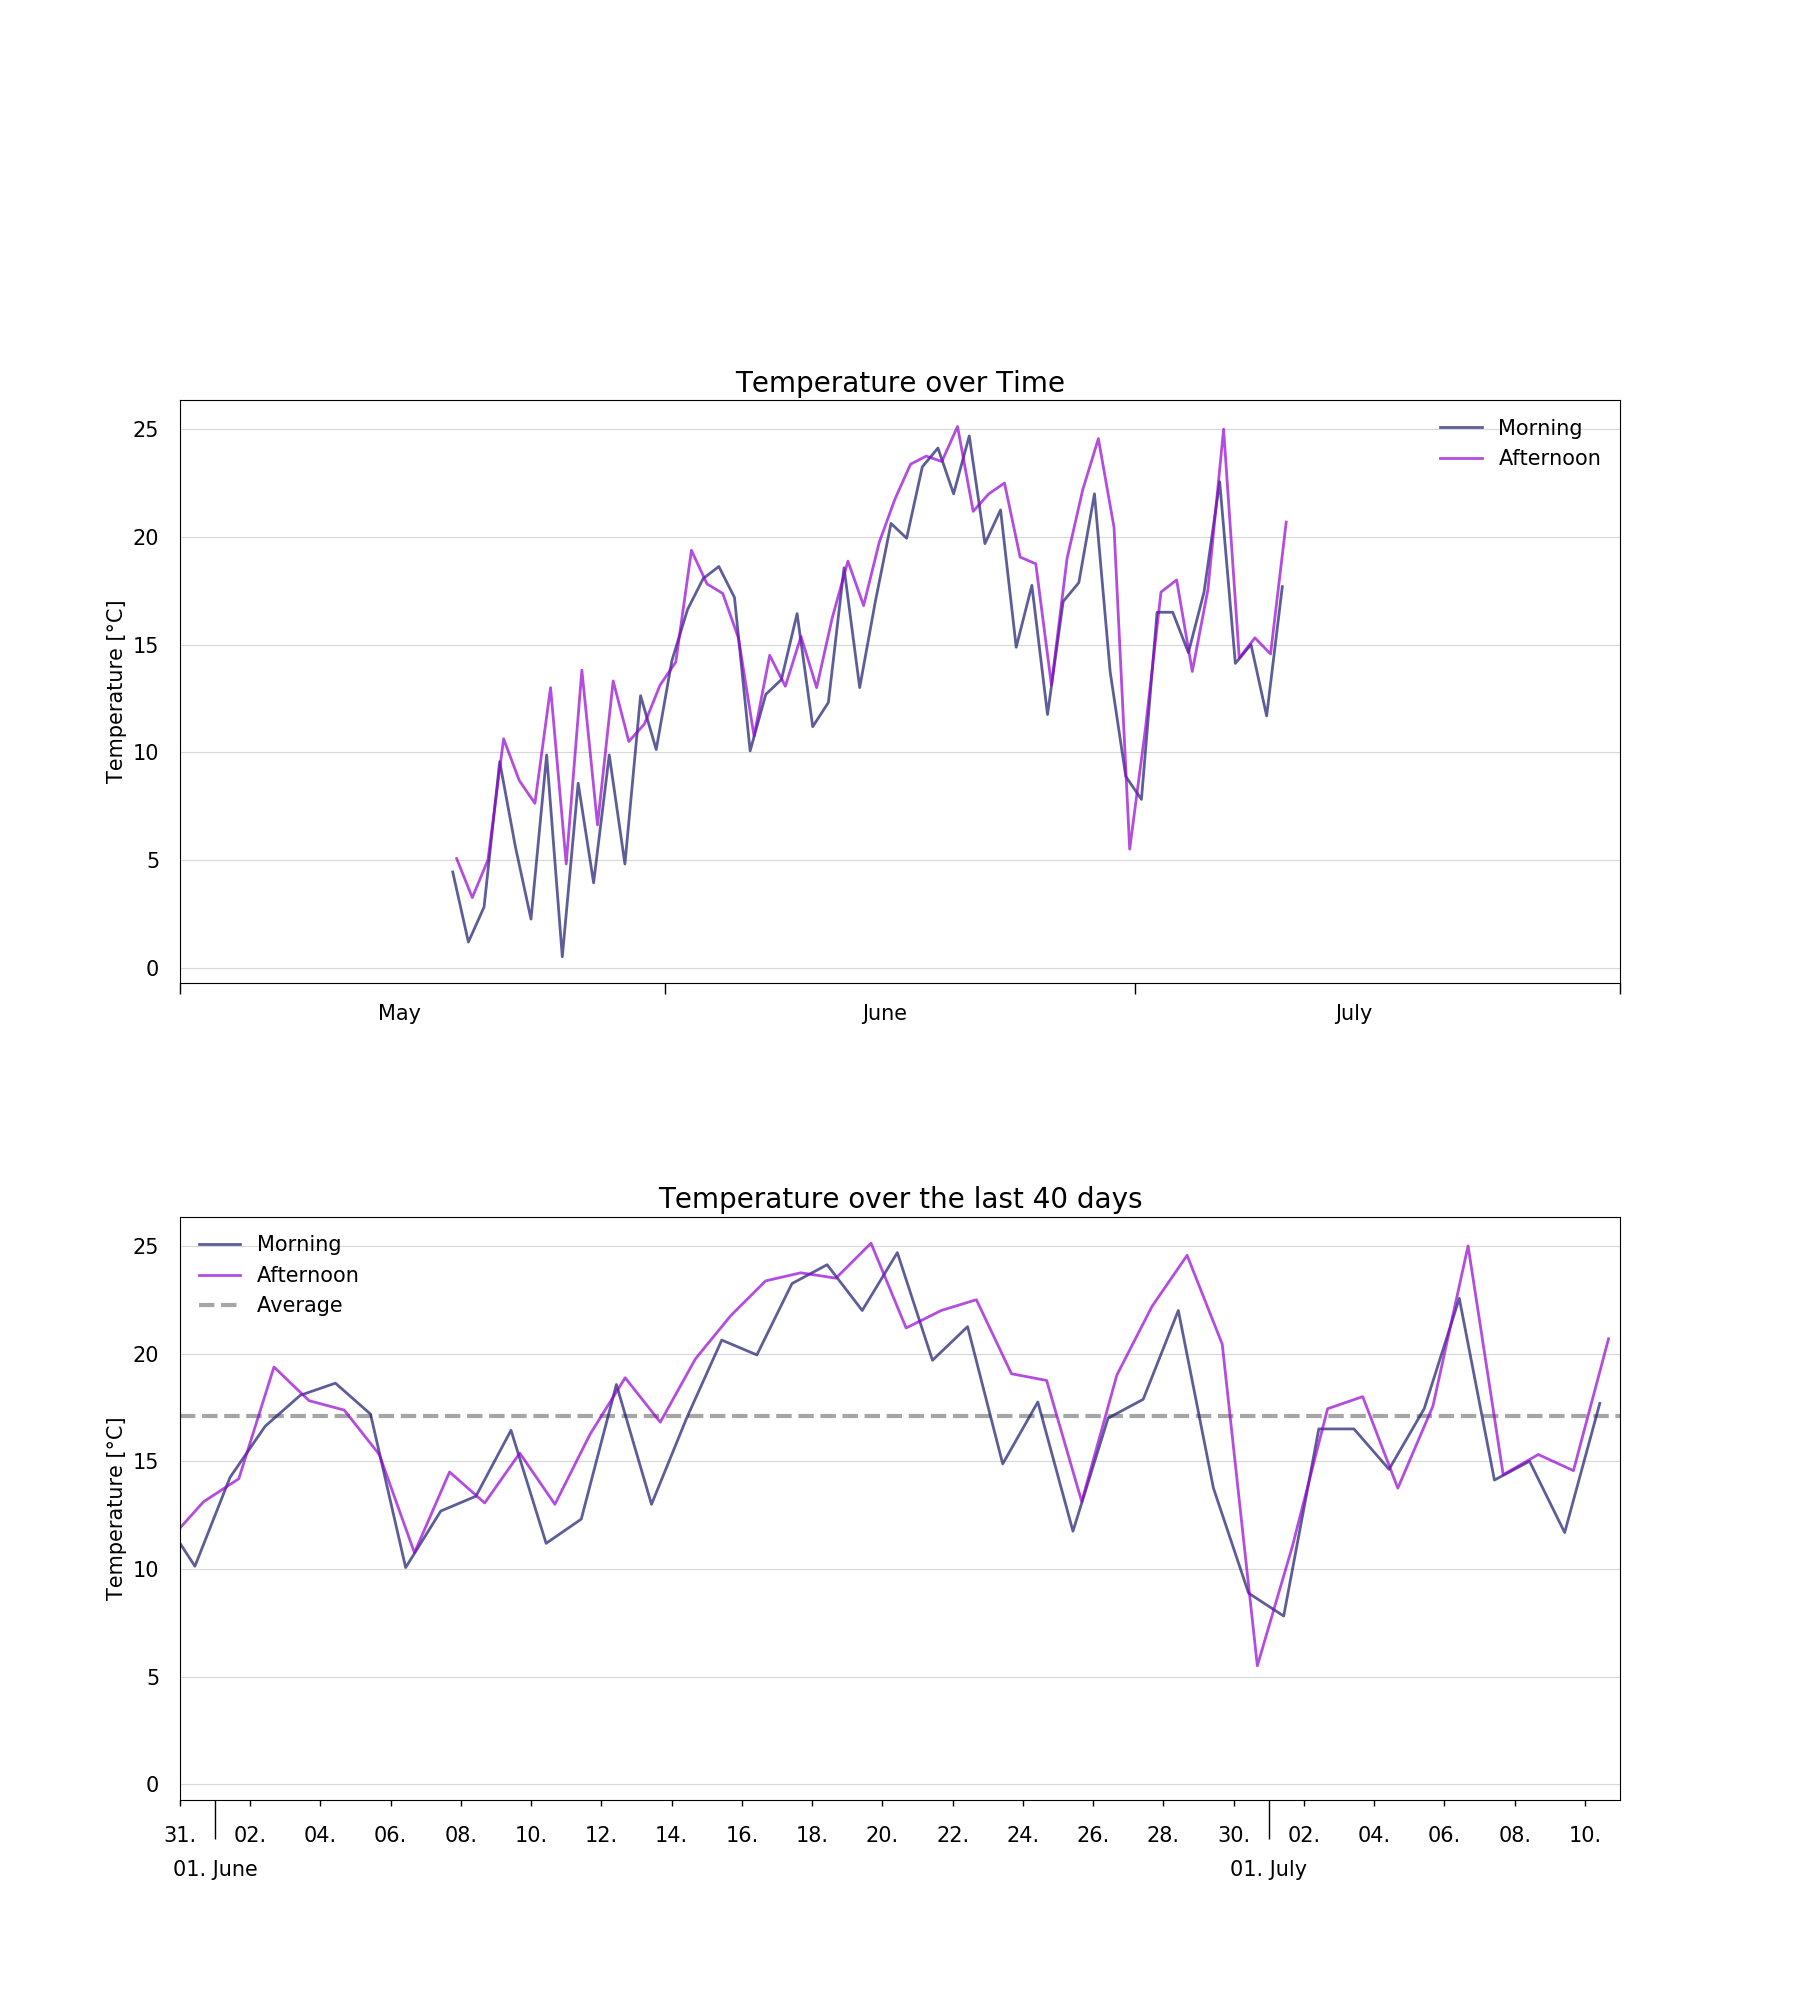
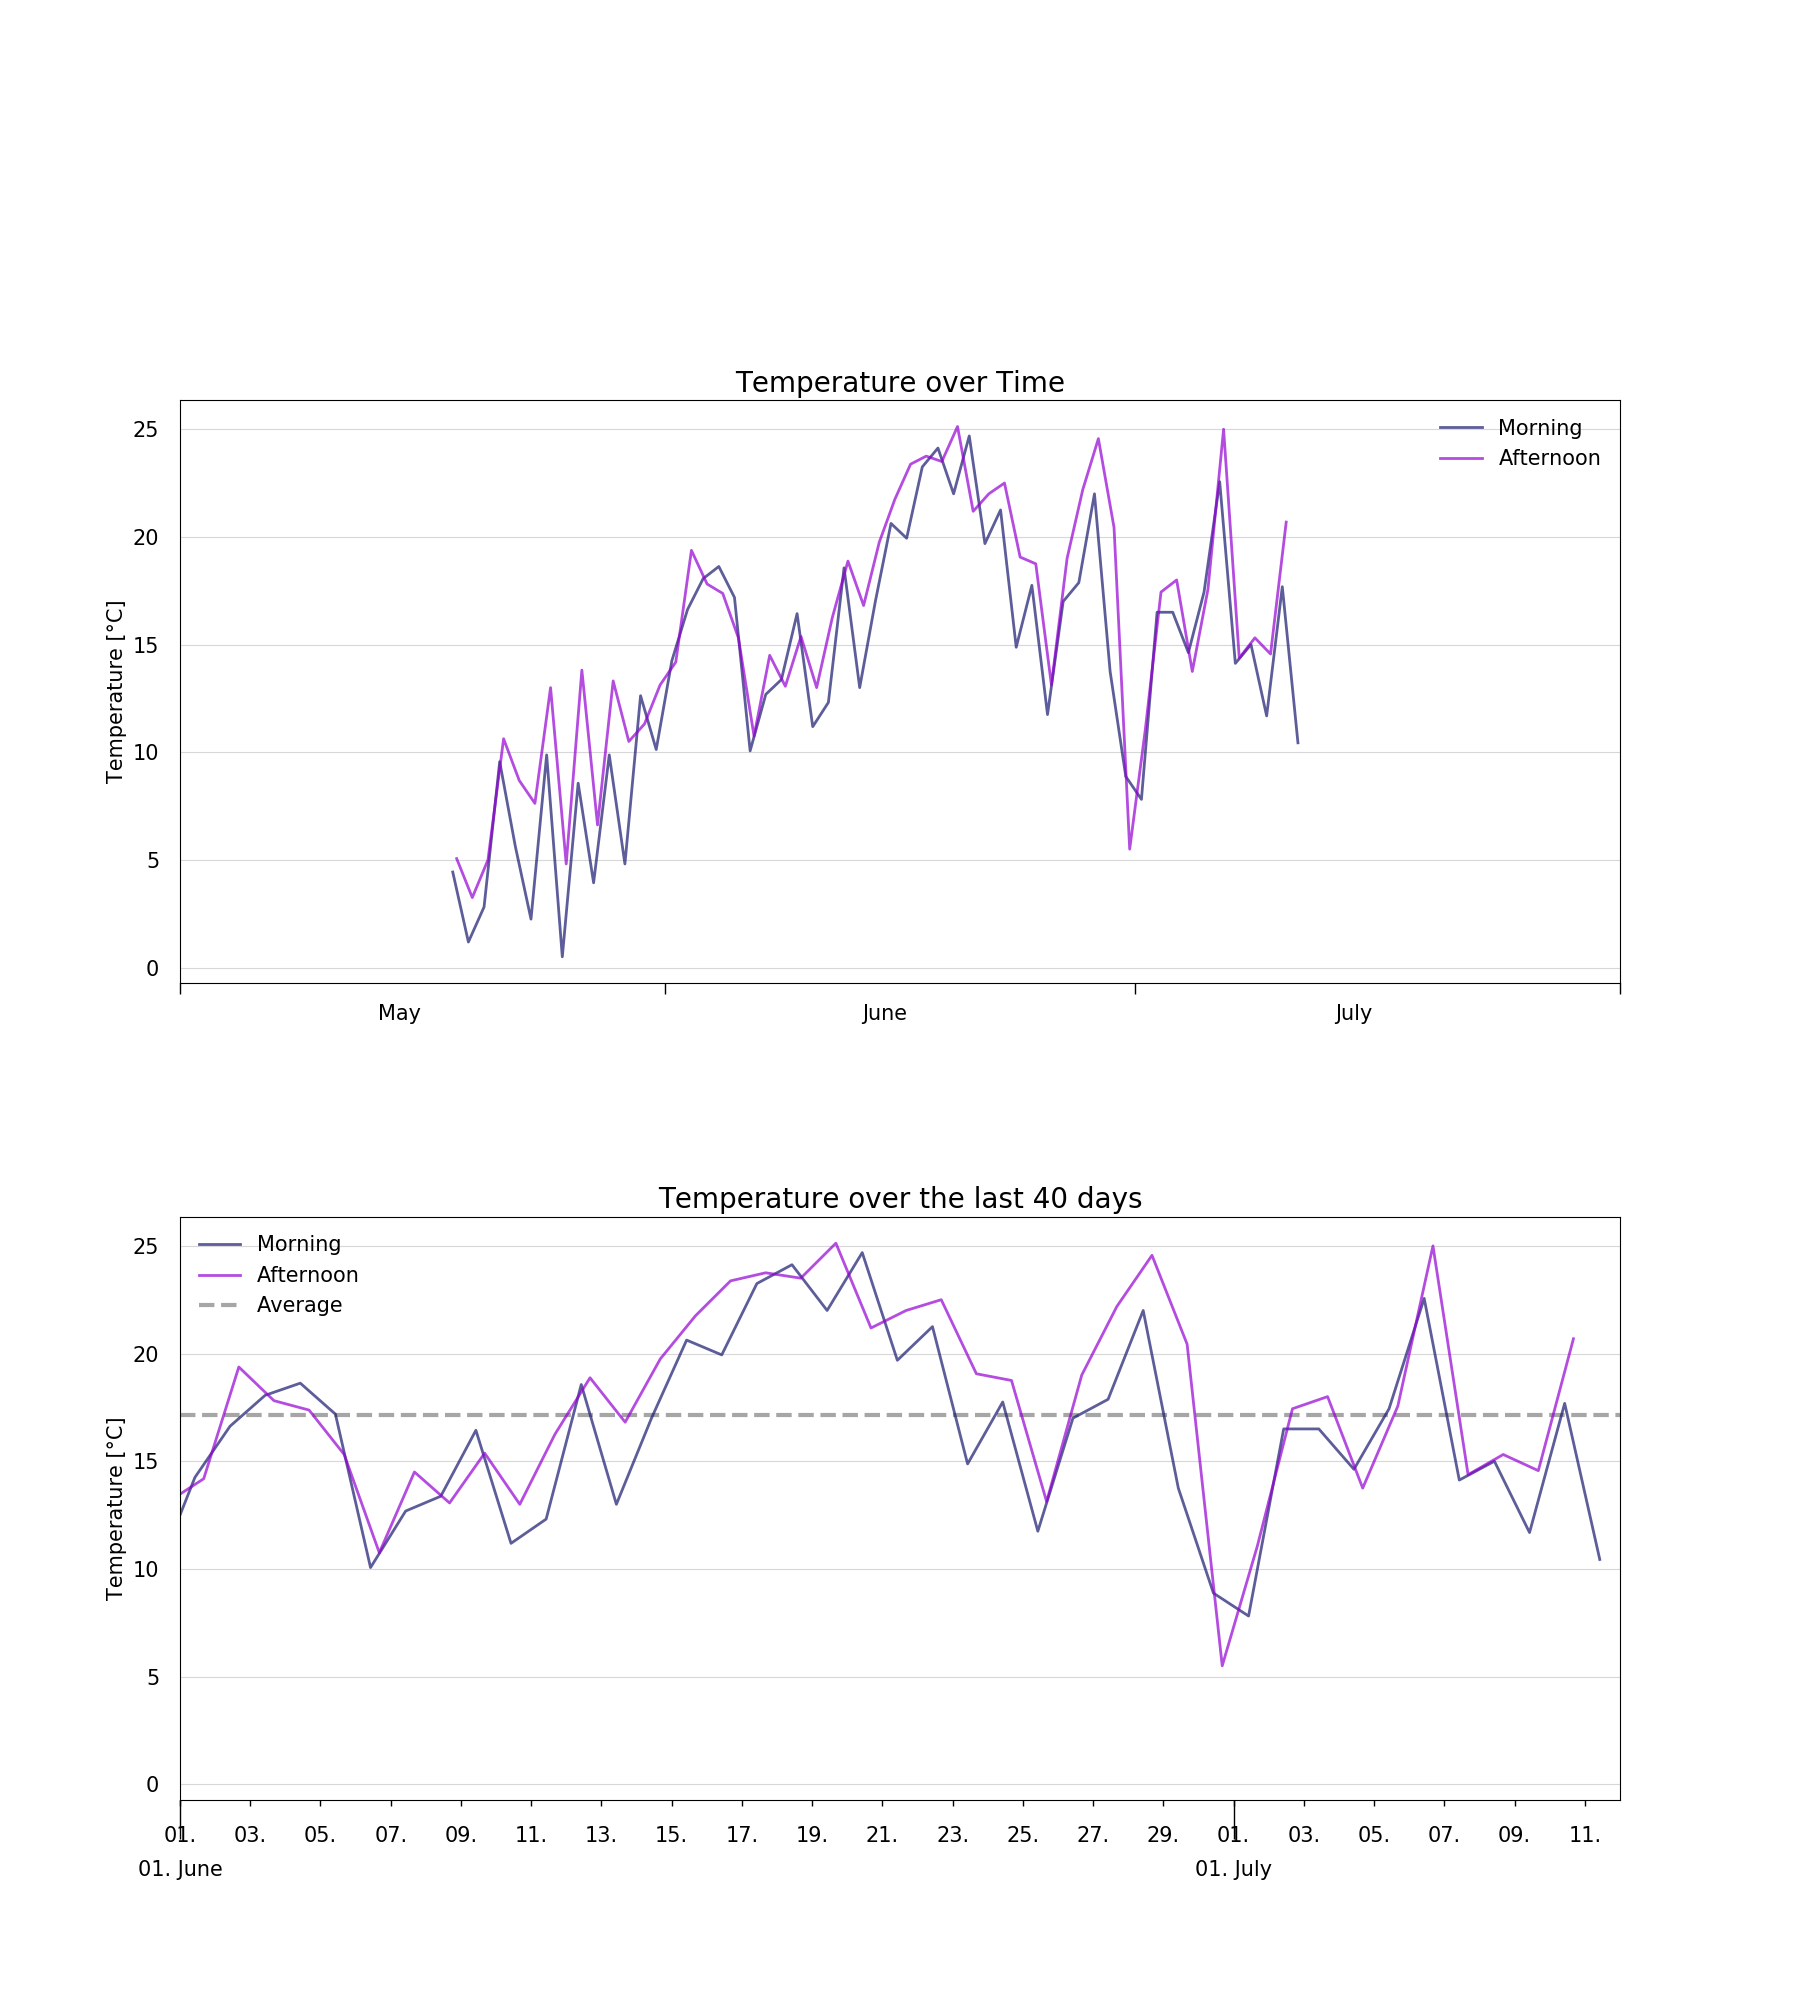
I'm a bot beep boop

Changed region(s): [[0.0933, 0.62, 0.9022, 0.837], [0.6844, 0.93, 0.7156, 0.961], [0.0933, 0.93, 0.1244, 0.961]]

diff --git a/resources/huette.md b/resources/huette.md
@@ -6,13 +6,13 @@ image: '/assets/img/'
 description: 'Live image from the Austrian alps'
 twitter_text: ' '
 ---
-## Latest image from 10 July 2021 at 16:11
+## Latest image from 11 July 2021 at 10:11
 <div class="huette">
   <div class="huette-image">
     <img src="{{ "/assets/img/huette.jpg" | prepend: site.baseurl }}">
   </div>
   <div class="huette-text">
-        <h2>Current Temperature: 20.687°C</h2>
+        <h2>Current Temperature: 10.437°C</h2>
         <p>A solar powered raspberry pi left alone in the wild is sending daily images and temperature data to this website. It should give you an impression about the current weather in the "Brixental".</p>
 
   </div>

diff --git a/rpi-script/huette.md b/rpi-script/huette.md
@@ -6,13 +6,13 @@ image: '/assets/img/'
 description: 'Live image from the Austrian alps'
 twitter_text: ' '
 ---
-## Latest image from 10 July 2021 at 16:11
+## Latest image from 11 July 2021 at 10:11
 <div class="huette">
   <div class="huette-image">
     <img src="{{ "/assets/img/huette.jpg" | prepend: site.baseurl }}">
   </div>
   <div class="huette-text">
-        <h2>Current Temperature: 20.687°C</h2>
+        <h2>Current Temperature: 10.437°C</h2>
         <p>A solar powered raspberry pi left alone in the wild is sending daily images and temperature data to this website. It should give you an impression about the current weather in the "Brixental".</p>
 
   </div>
